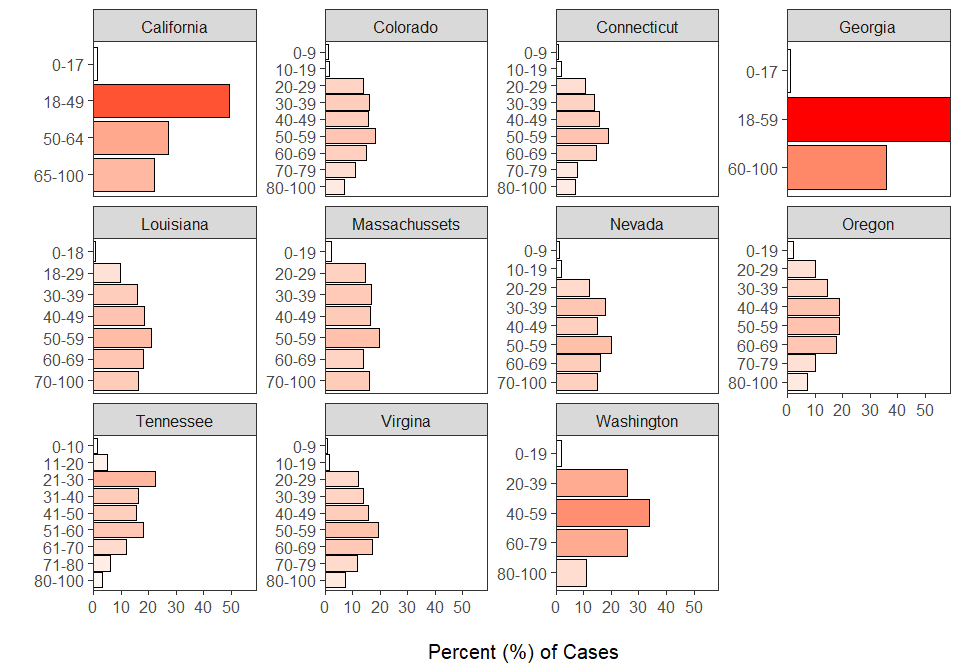
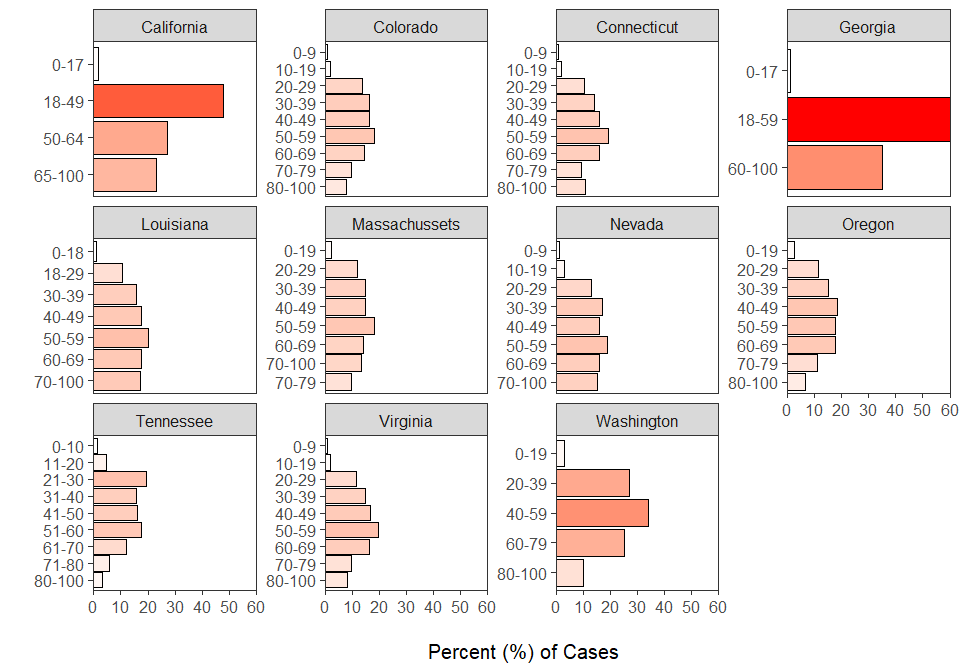
long overdue update of data
Data as of 04/15

diff --git a/README.md b/README.md
@@ -36,10 +36,10 @@ states do not provide sufficient data to conduct these analyses. For
 comments, concerns, or access to higher resolution data, please contact
 me at <alanfarahani@gmail.com>.
 
-The assembled data extend from NA to 2020-04-04, and comprise 11 unique
-states (the states represented are California, Colorado, Connecticut,
-Georgia, Louisiana, Massachussets, Nevada, Oregon, Tennessee, Virgina,
-Washington) for a total of 67652 confirmed cases.
+The assembled data extend from 2020-03-24 to 2020-04-15, and comprise 11
+unique states (the states represented are California, Colorado,
+Connecticut, Georgia, Louisiana, Massachussets, Nevada, Oregon,
+Tennessee, Virginia, Washington) for a total of 142824 confirmed cases.
 
 # Methods and Materials
 
@@ -65,7 +65,7 @@ regarding distribution of confirmed cases across age ranges. Accessed on
 # Major Trends
 
 Without transformation of the age-ranges, the percent of confirmed cases
-by ages as of 2020-04-04 can be seen in the figure below.
+by ages as of 2020-04-15 can be seen in the figure below.
 
 ![Percent of confirmed COVID-19 cases by age-range given by state
 authorities.](covid19_demographics3_git_files/figure-gfm/state-dist-1.png)
@@ -82,7 +82,11 @@ on the ability of state officials (and representatives) to respond.
 authorities.](covid19_demographics3_git_files/figure-gfm/state-dist-raw-1.png)
 
 The absolute change in the age-demographic profile of recent confirmed
-COVID-19 cases can be seen in the figure below. It is important to note
+COVID-19 cases can be seen in the figure below. The black points
+represent the previous absolute number of cases (on log scale), while
+the open colored points represents the new number of cases, and the size
+and color of the circle represent the percent increases in cases (the
+darker red, the larger the percentage increase). It is important to note
 that some states are actively in the process of changing their
 age-reporting ranges, and therefore some states (such as Georgia and
 Washington) may not have cumulative case data that concords with
